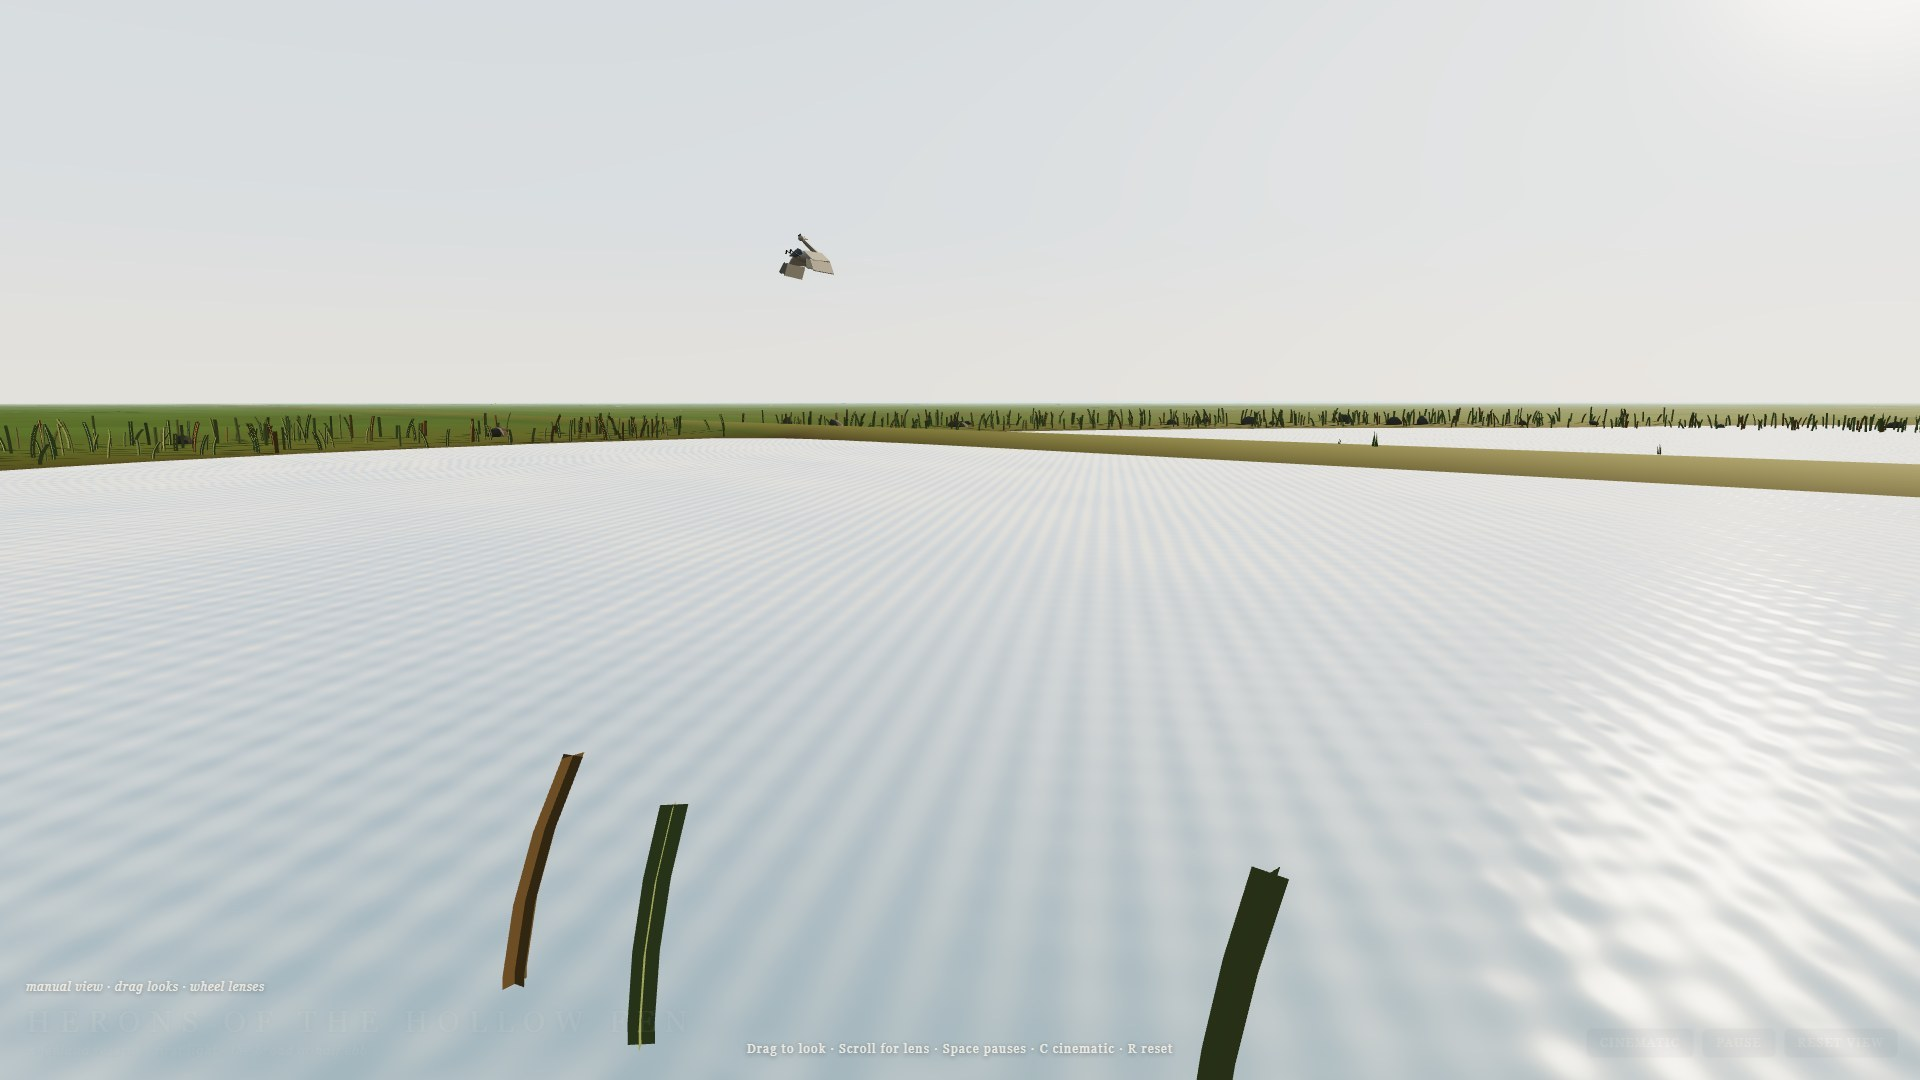
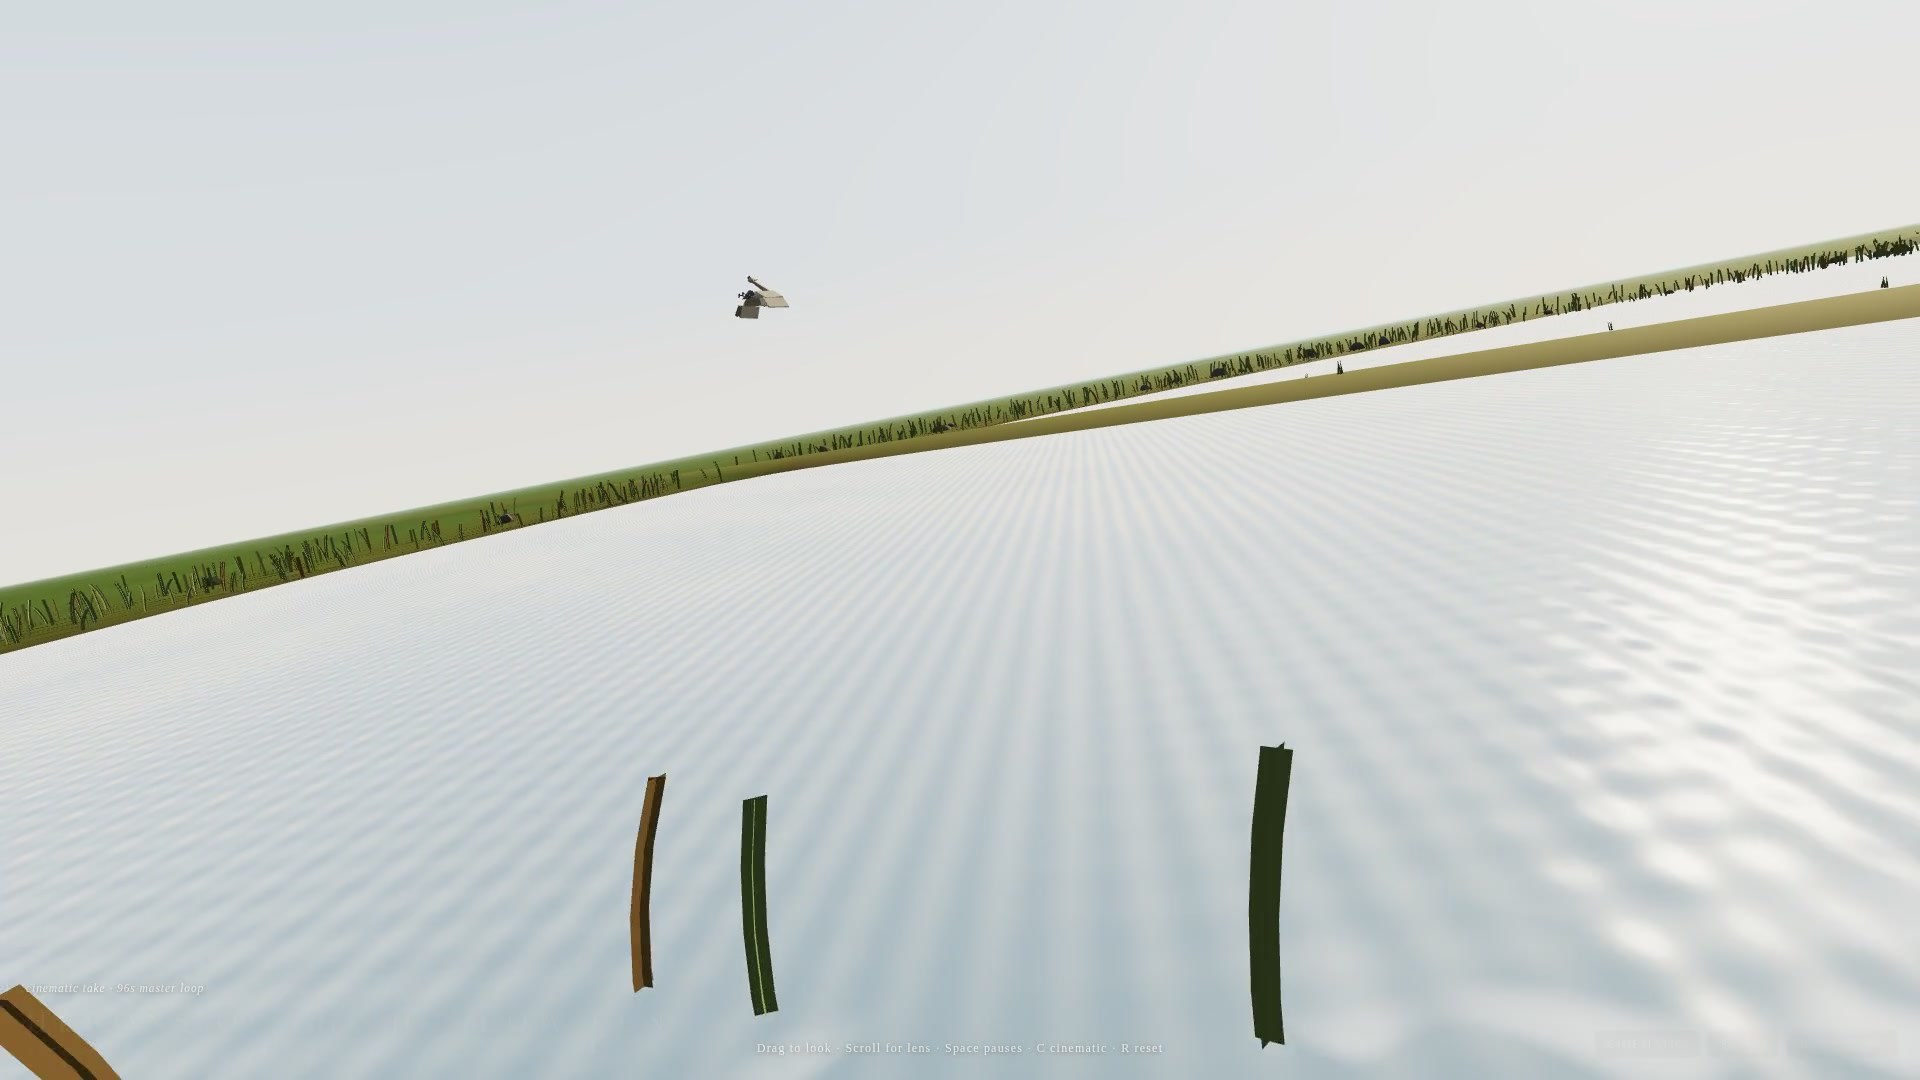
Re-record Ling herons with cinematic on; recorder no longer clicks an unreadable toggle

diff --git a/gallery/model-testing/ling-3-2-air-maya-l-herons.html b/gallery/model-testing/ling-3-2-air-maya-l-herons.html
@@ -160,7 +160,7 @@ footer{border-top:1px solid var(--line);margin:84px 0 0;padding:26px 0 60px;disp
   <p class="gal-meta">Ling-3.2-Air &middot; DeepSeek Harness &middot; Maya L &middot; 1347 KB &middot; 28 Nov 2026</p>
   <div class="gal-stats"><div class="gal-stat"><span class="gal-stat-k">goal sent</span><span class="gal-stat-v">28 Nov 2026 16:18</span></div><div class="gal-stat"><span class="gal-stat-k">build finished</span><span class="gal-stat-v">28 Nov 2026 18:41</span></div><div class="gal-stat"><span class="gal-stat-k">time working</span><span class="gal-stat-v">2 h 21 m</span></div><div class="gal-stat"><span class="gal-stat-k">first pass</span><span class="gal-stat-v">2 h 23 m</span></div><div class="gal-stat"><span class="gal-stat-k">follow-ups</span><span class="gal-stat-v">0</span></div><div class="gal-stat"><span class="gal-stat-k">model steps</span><span class="gal-stat-v">240</span></div><div class="gal-stat"><span class="gal-stat-k">tool calls</span><span class="gal-stat-v">332</span></div></div>
   
-  <figure class="gal-hero"><img src="../../demos/thumbs/model-testing/ling-3-2-air-maya-l-herons.jpg?v=1795898168-144879" alt="herons — Ling-3.2-Air, running" width="1280" height="800"><figcaption>Ling-3.2-Air &middot; 28 Nov 2026 &middot; preview</figcaption></figure>
+  <figure class="gal-hero"><img src="../../demos/thumbs/model-testing/ling-3-2-air-maya-l-herons.jpg?v=1795898818-125212" alt="herons — Ling-3.2-Air, running" width="1280" height="800"><figcaption>Ling-3.2-Air &middot; 28 Nov 2026 &middot; preview</figcaption></figure>
 
   <section class="gal-sec">
     <div class="gal-sec-h"><span class="gal-sec-n">01</span><div class="gal-sec-t">The build</div><span class="gal-sec-rule"></span></div>

diff --git a/gallery.html b/gallery.html
@@ -877,7 +877,7 @@ footer{border-top:1px solid var(--line);margin:84px 0 0;padding:26px 0 60px;disp
     <summary><span class="gal-sec-n">06</span><span class="gal-sec-t">Ling-3.2-Air</span><span class="gal-sec-rule"></span><span class="gal-sec-c">2 builds</span></summary>
     <div class="gal-grid">
       <a class="gal-card" href="gallery/model-testing/ling-3-2-air-maya-l-herons.html">
-        <span class="gal-thumbwrap"><img src="demos/thumbs/model-testing/ling-3-2-air-maya-l-herons.jpg?v=1795898168-144879" alt="herons — Ling-3.2-Air" loading="lazy"></span>
+        <span class="gal-thumbwrap"><img src="demos/thumbs/model-testing/ling-3-2-air-maya-l-herons.jpg?v=1795898818-125212" alt="herons — Ling-3.2-Air" loading="lazy"></span>
         <div class="gal-body">
           <div class="gal-t">herons</div>
           <div class="gal-m">Ling-3.2-Air</div>
